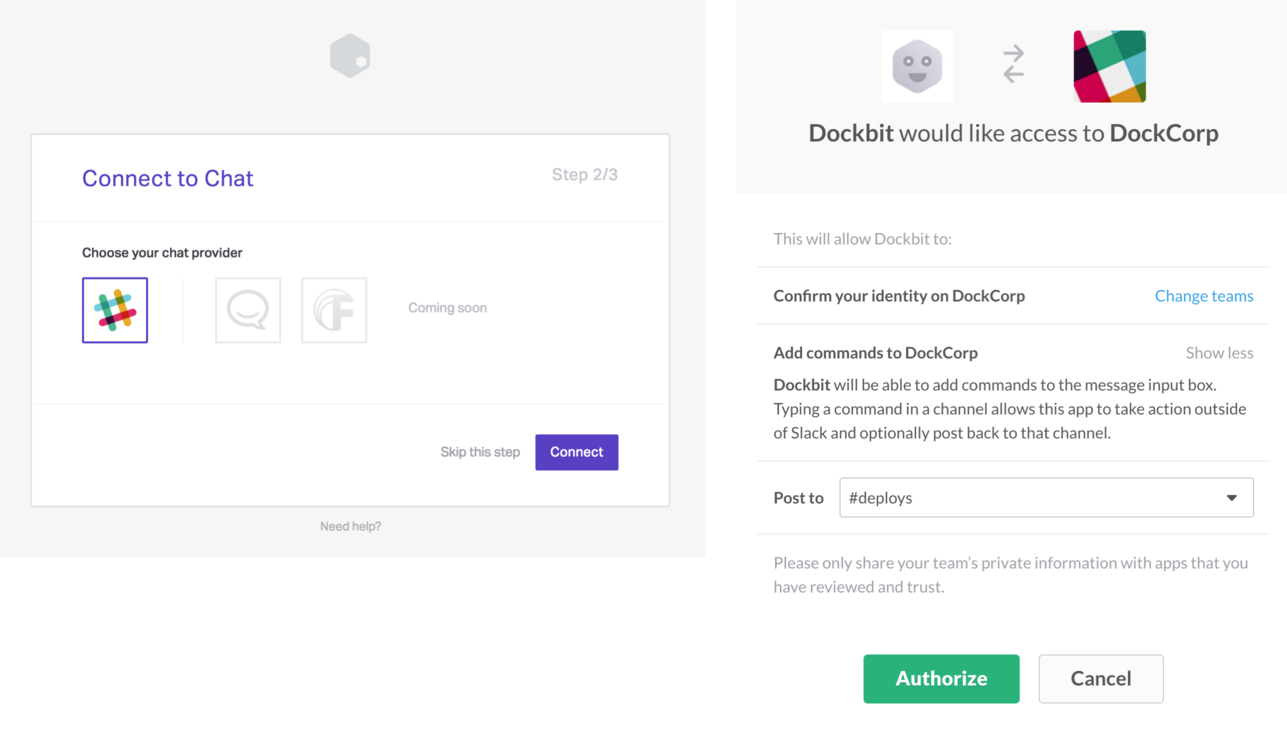
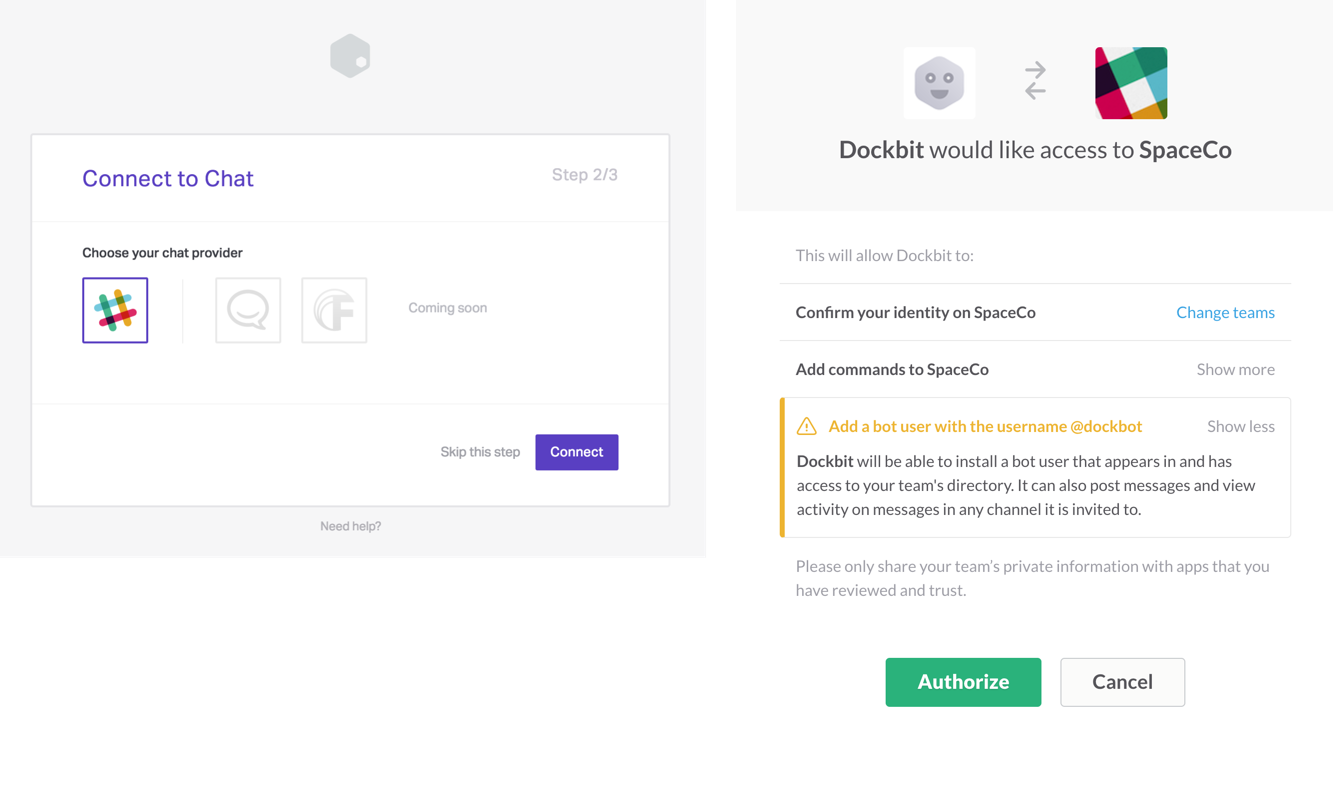
Updates to Slack integration

diff --git a/source/chats/slack.html.md b/source/chats/slack.html.md
@@ -8,22 +8,30 @@ Slack is one of the [supported chat systems](/chats) in Dockbit. It's used as th
 
 ## Connecting Slack
 
-After you've signed up and created your Dockbit Team, you will be presented with the list of chat providers. Choosing Slack logo and clicking **Connect** will send your browser to the Slack site, where you will need to choose your team and authorize [Dockbit Slack Application](https://slack.com/apps/A0FLBC3JQ-dockbit). If you've skipped connecting Slack during your onboarding process, you can always re-connect again by going to your **Team Settings**, choosing **Slack** section and clicking on the **Add to Slack** button.
-
-You can now type `/dockbit help` command in your team chat and it will tell you everything you can do with Dockbit.
+After you've signed up and created your Dockbit Team, you will be presented with the list of chat providers. Choosing Slack logo and clicking **Connect** will send your browser to the Slack site, where you will need to choose your team and authorize the [Dockbit Slack Application](https://slack.com/apps/A0FLBC3JQ-dockbit).
 
 ![Connecting Slack](../images/chats/slack-connect.png)
 
-## Authorizing Slack Channels
+If you've skipped connecting Slack during the onboarding process, you can always re-connect again by going to your **Team Settings**, choosing **Slack** section and clicking on the **Add to Slack** button.
 
-Dockbit uses [Slack Channels](https://get.slack.help/hc/en-us/articles/201402297-Create-a-channel) to send notifications about your team deployments. In order to authorize Slack Channels, navigate to your **Team Settings**, choose **Slack** section and click **Add to Slack**. This is also useful if you ever changed permissions on the Slack side and want to re-initiate the connection.
+You can now type `/dockbit help` command in your team chat and it will tell you everything you can do with Dockbit.
 
-![Authorizing Slack Channels](../images/chats/slack-channels.png)
+When you interact with the Slack bot for the first time, you will be asked to authenticate yourself with [GitHub](../vcs/github). This is a required step to let us correctly map your Slack account to the Dockbit account. After that, you are all set to operate Dockbit from within your team Slack.
+
 
 ## Configuring Pipeline Slack Channel
 
-Once you've authorized Slack Channels, you can choose one of them in the Pipeline settings. Dockbit will then send all the notifications related to this pipeline to the configured Slack channel.
+Once you've connected Slack, you can choose one of your Slack Channels in the Pipeline Settings. Dockbit will then send all the notifications related to this pipeline to the configured Slack channel.
 
 ![Configuring Pipeline Slack Channel](../images/chats/slack-pipeline-channel.png)
 
 
+## What is Dockbot?
+
+**Dockbot** is your friendly [Slack bot](https://api.slack.com/bot-users) that handles a number of things for you in Slack:
+
+* It lists your team Slack channels in the Pipeline Settings
+* It sends deployments notifications to the channel configured above
+* It sends direct messages to the users if for some reason deployment can't be performed
+
+Can it read my team messages, you may ask? No, _dockbot_ does not listen to your Slack messages. We use the `/dockbit` [Slash](https://api.slack.com/slash-commands) command as the primary chat interface, so Dockbit only sees what you instruct it to do. Hence, you do not need to invite _dockbot_ to your channels for the Dockbit commands to work.

diff --git a/source/getting-started/index.html.md b/source/getting-started/index.html.md
@@ -17,7 +17,7 @@ Pipeline consists of a number of stages, powered by Dockbit's [Integrations](/in
 
 ## Step-by-step
 
-To get you started, let us walk you through creating a sample deployment pipeline for an [Example Ember.js application](https://github.com/DockbitExamples/ember) and deploy it to [AWS](../integrations/aws-s3-website), along with any intermediary steps necessary to build and verify our application. We assume you've already [signed up](https://dockbit.com) and created your Dockbit Team.
+To get you started, let us walk you through creating a sample deployment pipeline for an [Example Ember.js application](https://github.com/DockbitExamples/ember) and deploy it to [AWS](../integrations/aws-s3-website), along with any intermediary steps necessary to build and verify our application. We assume you've already [signed up](https://dockbit.com), created your Dockbit Team and [added it to Slack](../chats/slack).
 
 Before creating any pipeline, it's beneficial to think a bit of the steps involved, which are in our case:
 
@@ -32,8 +32,8 @@ Creating a Dockbit Pipeline is easy, but we will need a sample application. If y
 
 All you need to do now, is to click on the **Create pipeline** button in the top navigation, choose the forked repository and click **Create**:
 
-  * The **Name** uniquely identifies this pipeline in your Team. It is also referenced in the [Slack](../chats/slack) chatbot when triggering deployments.
-  * The **Slack channel** is one of the channels you've [authorized Dockbit](../chats/slack) for during the onboarding process. It is used to receive deployment notifications.
+  * The **Name** uniquely identifies this pipeline in your Team. It is also referenced in [Slack](../chats/slack) when triggering deployments.
+  * The **Slack channel** is the channel where you want to receive deployment notifications.
 
 ![Getting Started - Step 1](../images/getting-started/create-pipeline.png)
 
@@ -51,7 +51,7 @@ Notice how we didn't need to install our app dependencies, nor configure credent
 
 ### 3. Deploy from Slack
 
-It's time to deploy, right from Slack! Open up the Slack channel you've authorized Dockbit for, instruct the Dockbit chatbot to deploy, and sit back-n-watch what happens.
+It's time to deploy, right from Slack! Open up the Slack channel you've configured in the Pipeline Settings, instruct the Dockbit chatbot to deploy, and sit back-n-watch what happens.
 
 ![Getting Started - Step 3](../images/getting-started/deploy-from-slack.gif)
 
